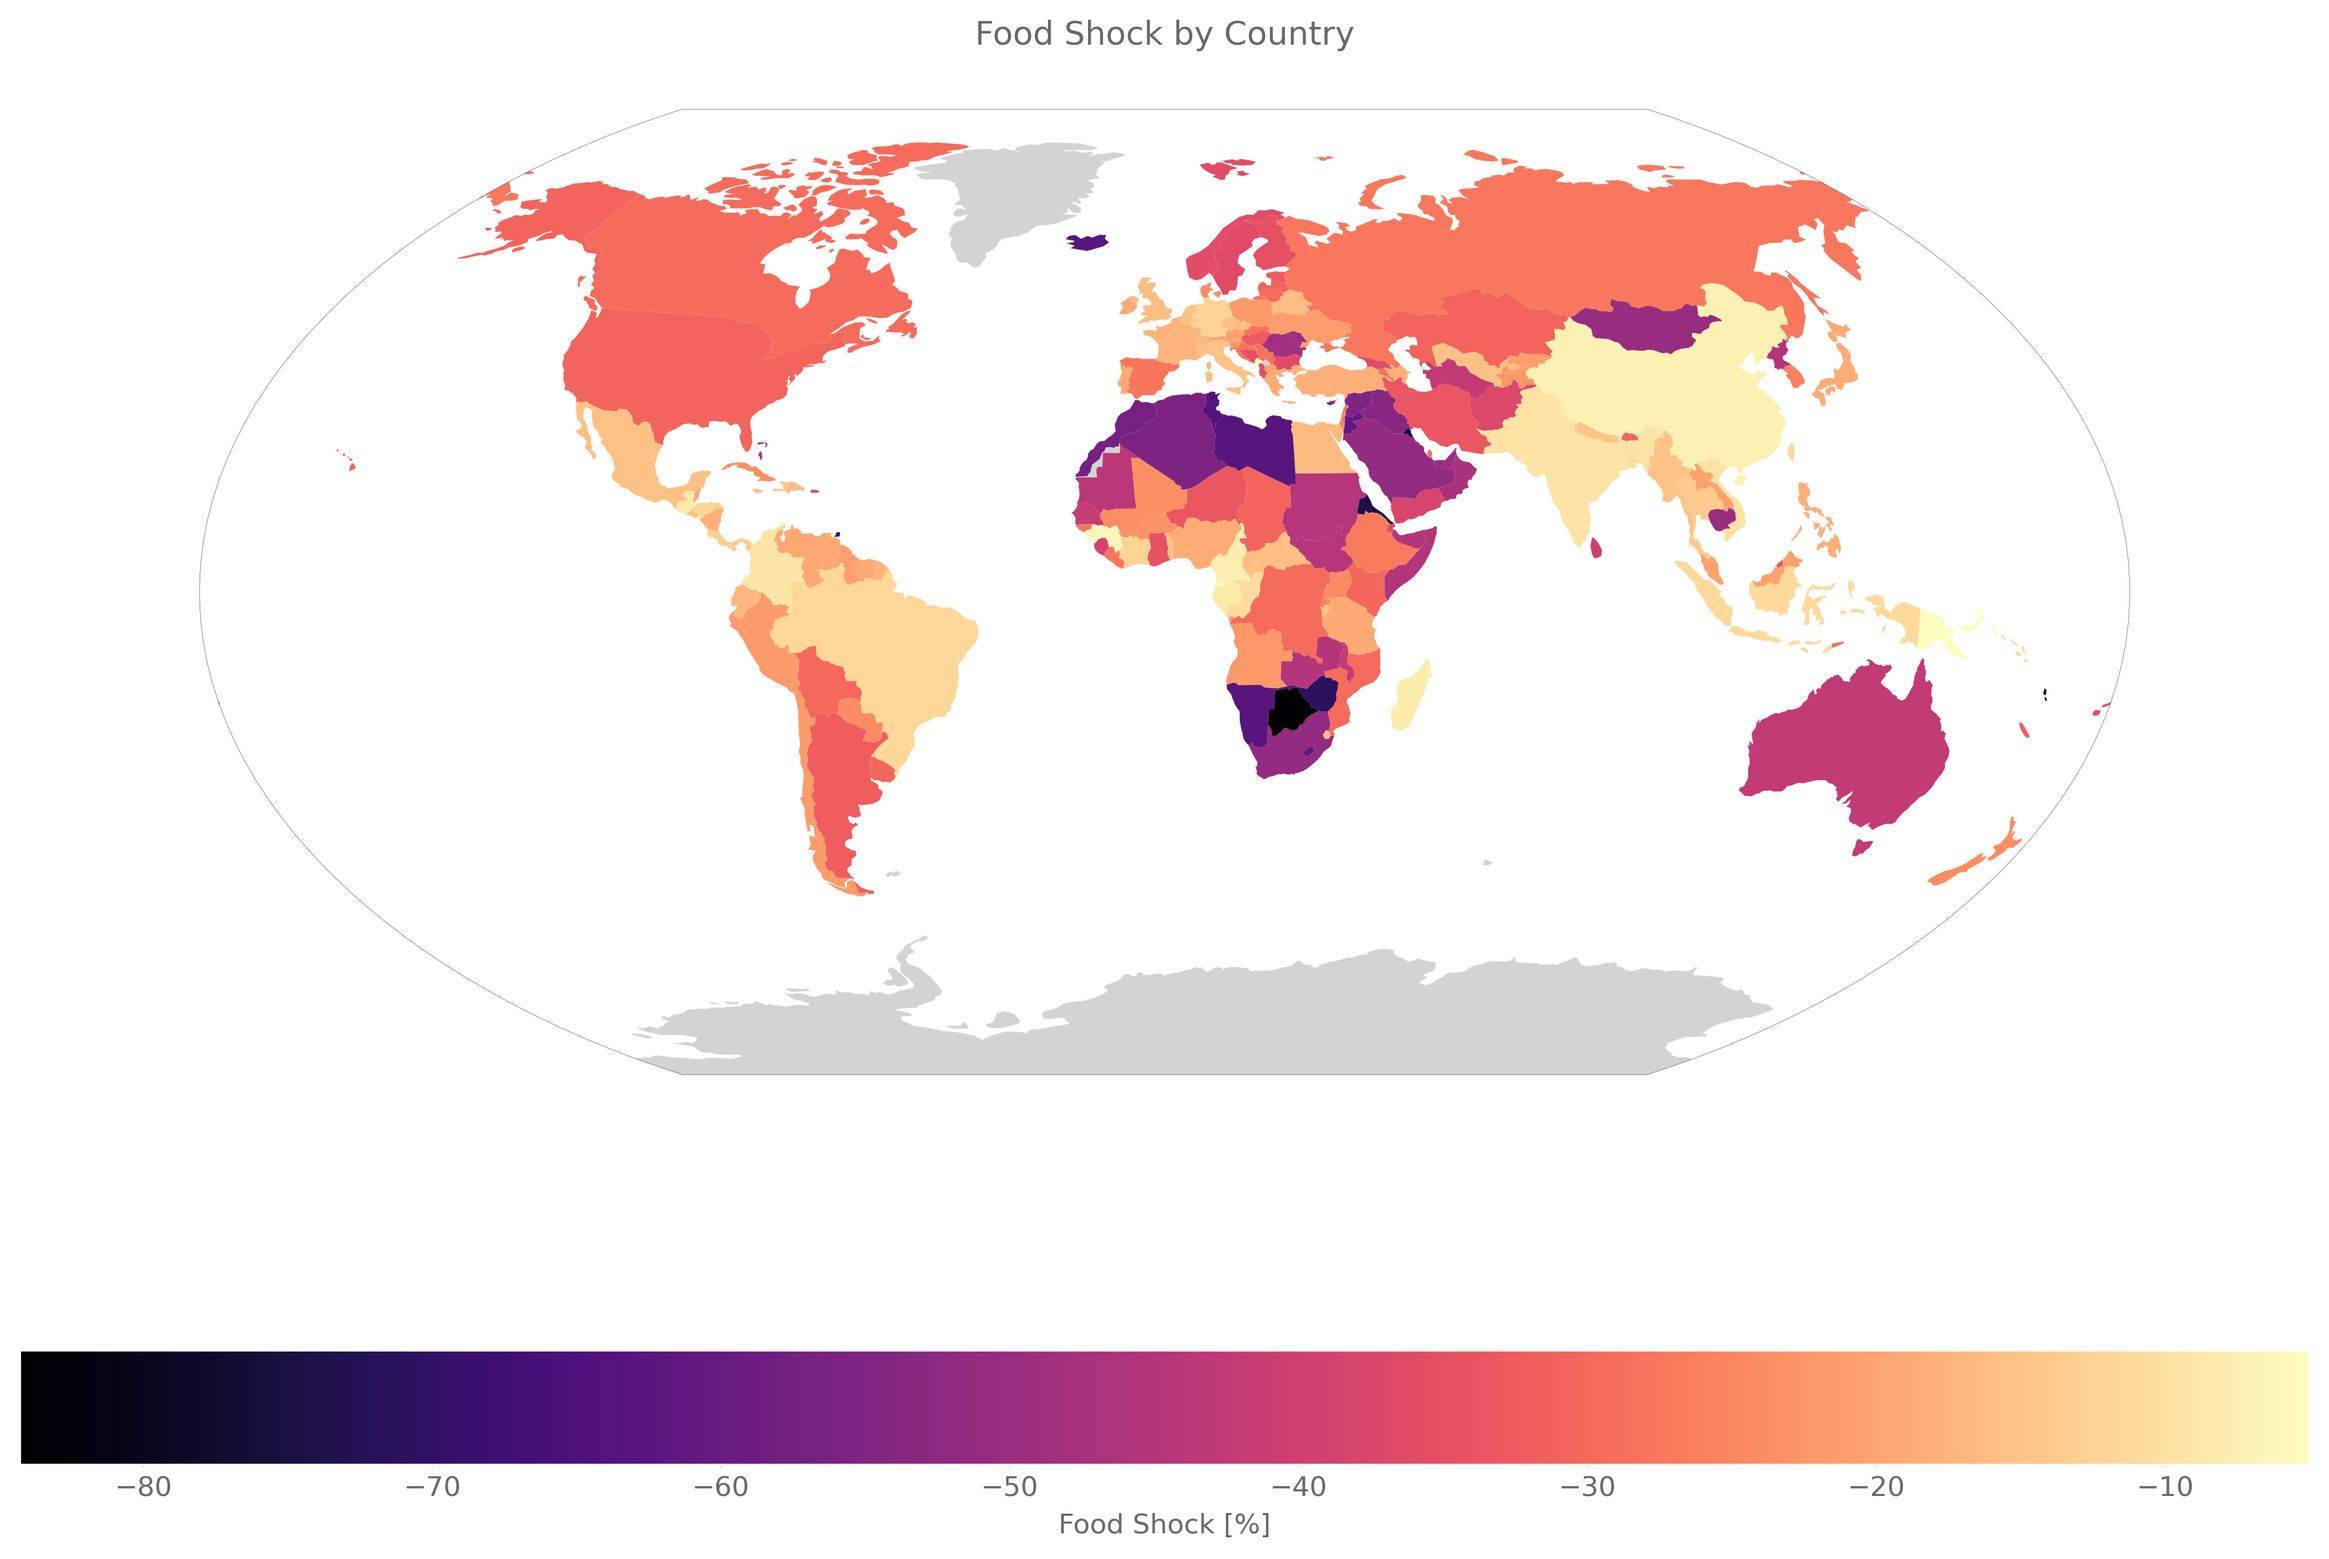
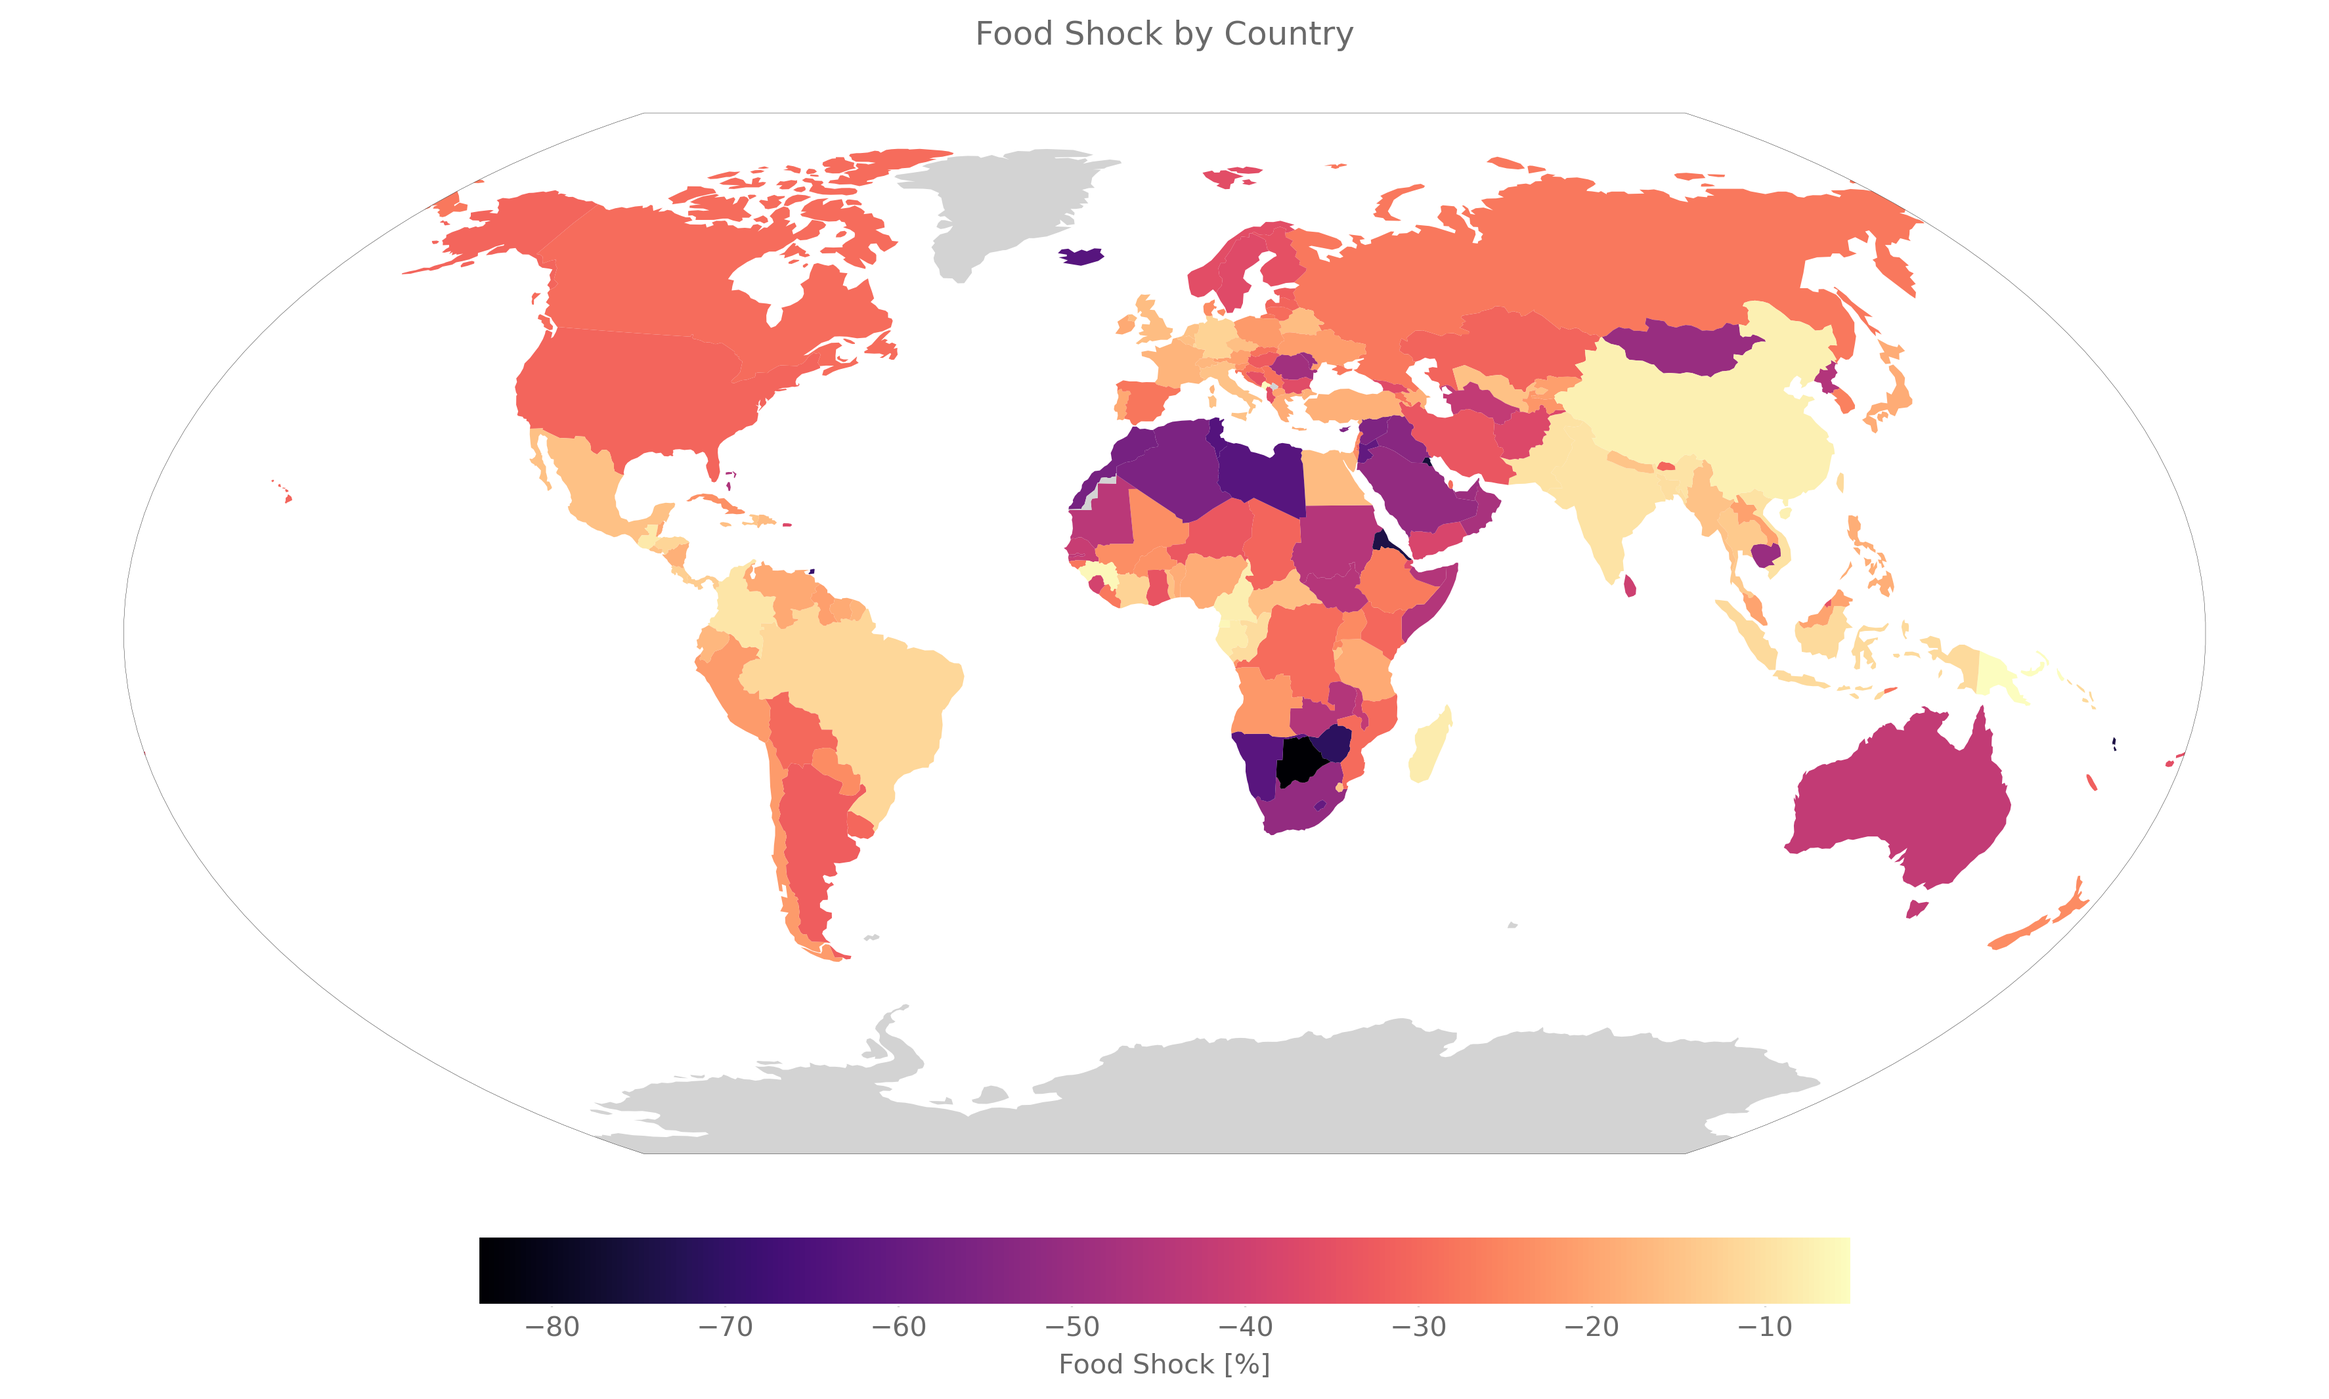
Beautyfied the map

diff --git a/src/plot_maps.py b/src/plot_maps.py
@@ -76,10 +76,10 @@ def merge_data_with_map(df, map_df):
     merged.rename(columns={0: 'food_shock'}, inplace=True)
     return merged
 
+
 def plot_map(merged, title, filename):
     """
     Plot the map with the merged data.
-
     Args:
         merged (gpd.GeoDataFrame): Merged GeoDataFrame.
         title (str): Title for the plot.
@@ -89,7 +89,10 @@ def plot_map(merged, title, filename):
     # Set the map to the Winkel Tripel projection
     merged = merged.to_crs('+proj=wintri')
     merged.plot(column='food_shock', ax=ax, legend=True,
-                legend_kwds={'label': "Food Shock [%]", 'orientation': "horizontal"},
+                legend_kwds={'label': "Food Shock [%]", 
+                            'orientation': "horizontal",
+                            'pad': 0.02,        # Distance from map
+                            'shrink': 0.6},      # Overall size
                 cmap='magma', missing_kwds={"color": "lightgrey"})
     plot_winkel_tripel_map(ax)
     ax.set_title(title)
